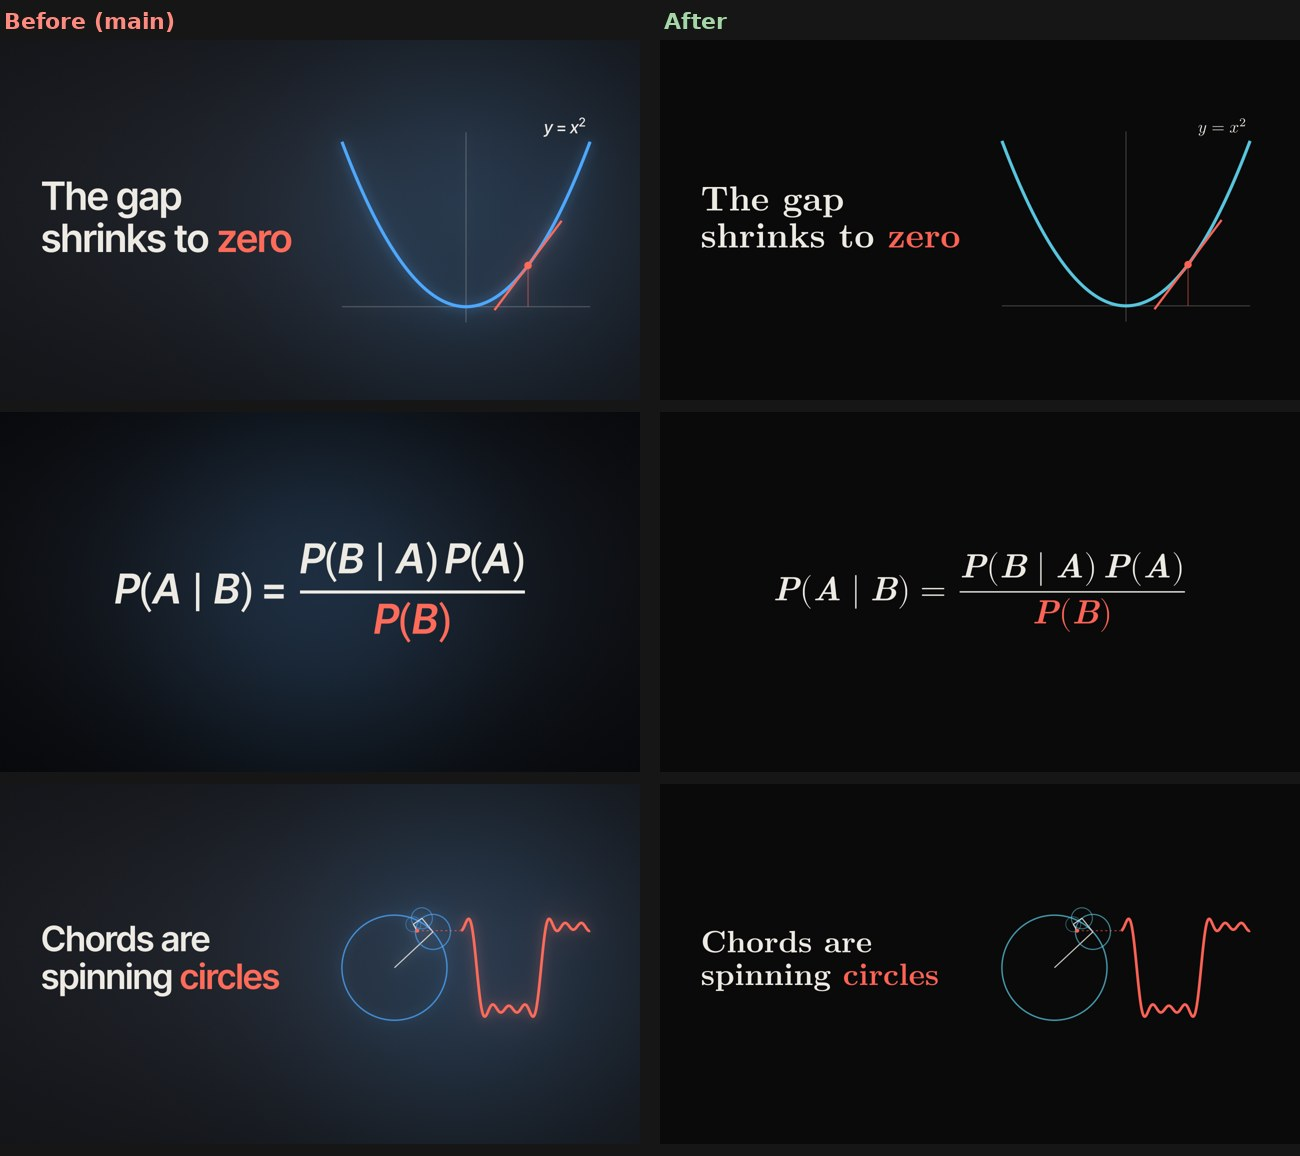
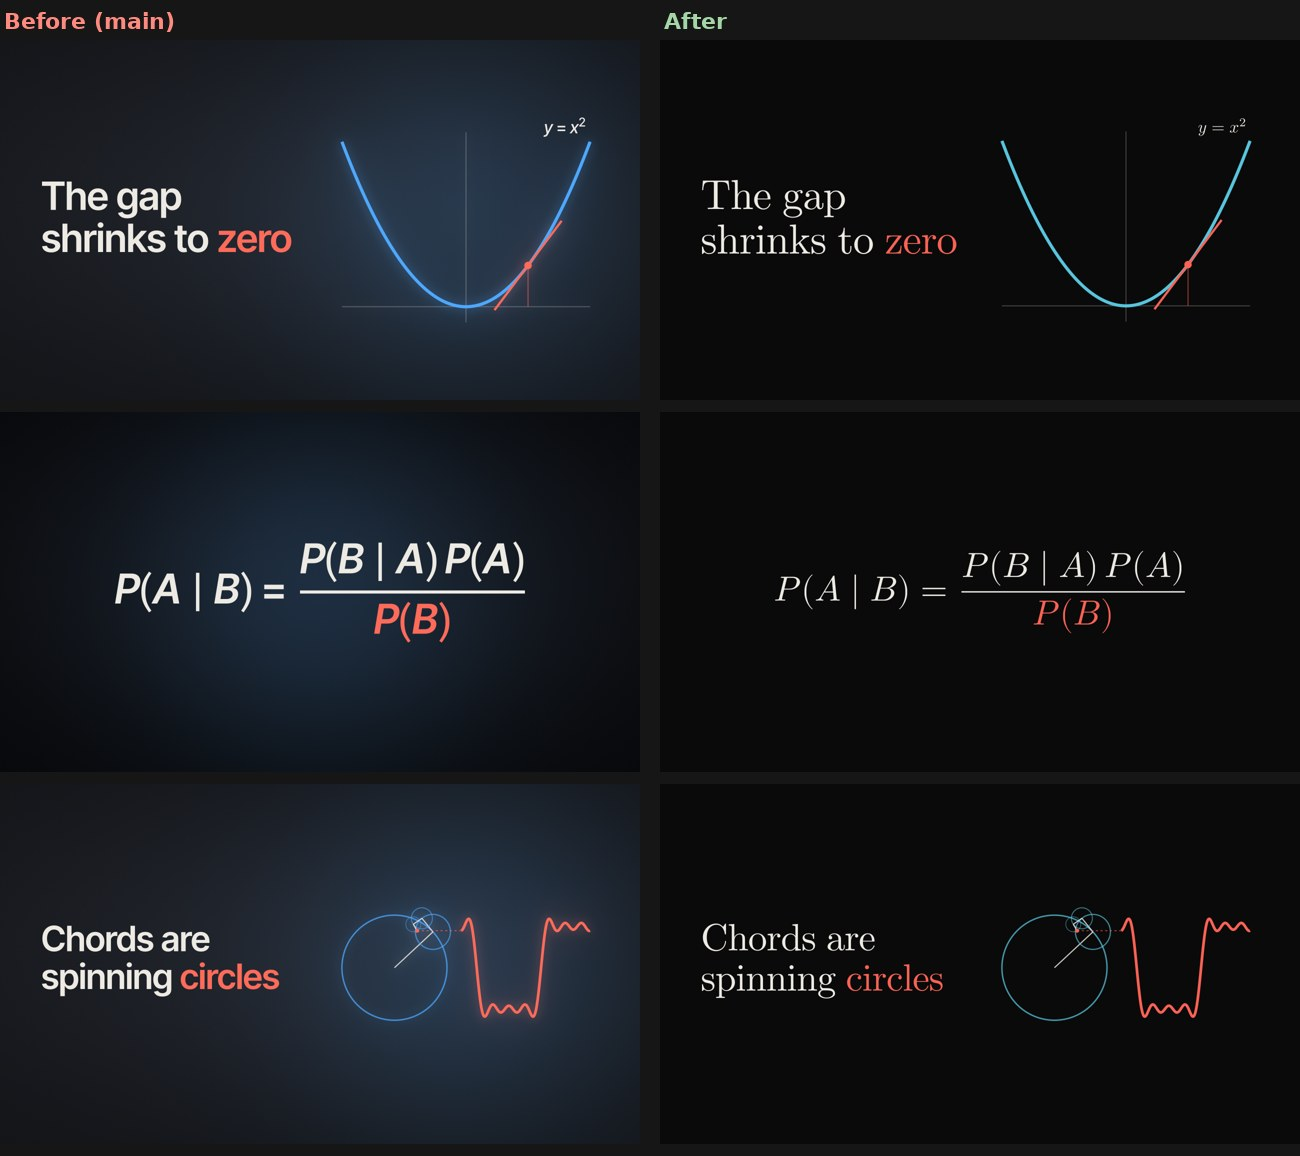
Thumbnails: set headlines in CMU Serif Roman, matching the video titles
Replace CMU Serif Bold Extended (a wide, loose book-heading cut) with the
regular Roman used in the videos, one tier larger (92/84/76 px), with
tighter letter (-1.5) and word (0.8) spacing to offset Computer Modern's
small-text spacing at display size. Headline math now comes straight from
Latin Modern Math.

diff --git a/src/lib/thumbnail/renderer.py b/src/lib/thumbnail/renderer.py
@@ -81,7 +81,7 @@ PALETTES = {
 
 # Type scale (em size in px). Headlines step down a tier only when the copy
 # cannot fit the column at the larger size.
-HEADLINE_TIERS = (78, 70, 62)
+HEADLINE_TIERS = (92, 84, 76)
 HEADLINE_LEADING = 1.06
 LABEL_SIZE = 34
 CAPTION_SIZE = 30
@@ -309,21 +309,19 @@ class Typesetter:
         if weight in self._templates:
             return self._templates[weight]
         path = self.font_dir.rstrip("/") + "/"
-        # Headlines ("SemiBold") use CMU Serif Bold; labels use the regular cut.
-        upright, italic = ("cmunbx.otf", "cmunbi.otf") if weight == "SemiBold" else ("cmunrm.otf", "cmunti.otf")
+        # Headlines ("SemiBold") and labels both use CMU Serif Roman, the face of
+        # the video titles. Computer Modern's 10pt design spaces words for small
+        # text, so headlines set at display size get tighter word spacing.
+        upright, italic = "cmunrm.otf", "cmunti.otf"
+        word_space = ", WordSpace=0.8" if weight == "SemiBold" else ""
         preamble = "\n".join([
             r"\usepackage{amsmath}",
             r"\usepackage{fontspec}",
             r"\usepackage{unicode-math}",
             r"\usepackage{xcolor}",
             r"\defaultfontfeatures{Kerning=On}",
-            rf"\setmainfont{{{upright}}}[Path={path}, ItalicFont={italic}, BoldFont={upright}, BoldItalicFont={italic}]",
+            rf"\setmainfont{{{upright}}}[Path={path}, ItalicFont={italic}, BoldFont={upright}, BoldItalicFont={italic}{word_space}]",
             rf"\setmathfont{{latinmodern-math.otf}}[Path={path}]",
-            # Bold headlines get bold letters and digits in their math too.
-            *([
-                rf"\setmathfont{{{italic}}}[Path={path}, range={{it/{{latin,Latin}}}}]",
-                rf"\setmathfont{{{upright}}}[Path={path}, range={{up/{{num,latin,Latin}}}}]",
-            ] if weight == "SemiBold" else []),
             rf"\definecolor{{ink}}{{HTML}}{{{INK[1:]}}}",
             rf"\definecolor{{muted}}{{HTML}}{{{MUTED[1:]}}}",
             rf"\definecolor{{cool}}{{HTML}}{{{self.cool[1:]}}}",
@@ -1269,7 +1267,8 @@ def compose(spec: dict, font_dir: str, safe: bool):
         )
         for _, size, lines in candidates[:6]:
             rendered = [" ".join(word_tex(w, accent_span, safe) for w in words[a:b]) for a, b in lines]
-            block = ts.block(rendered, size, "SemiBold")
+            # Display-size Computer Modern reads loose; tighten letter spacing.
+            block = ts.block(rendered, size, "SemiBold", tracking=-1.5)
             if block.width <= column:
                 copy_block = block
                 report.update(size=size, lines=[" ".join(w.text for w in words[a:b]) for a, b in lines])
